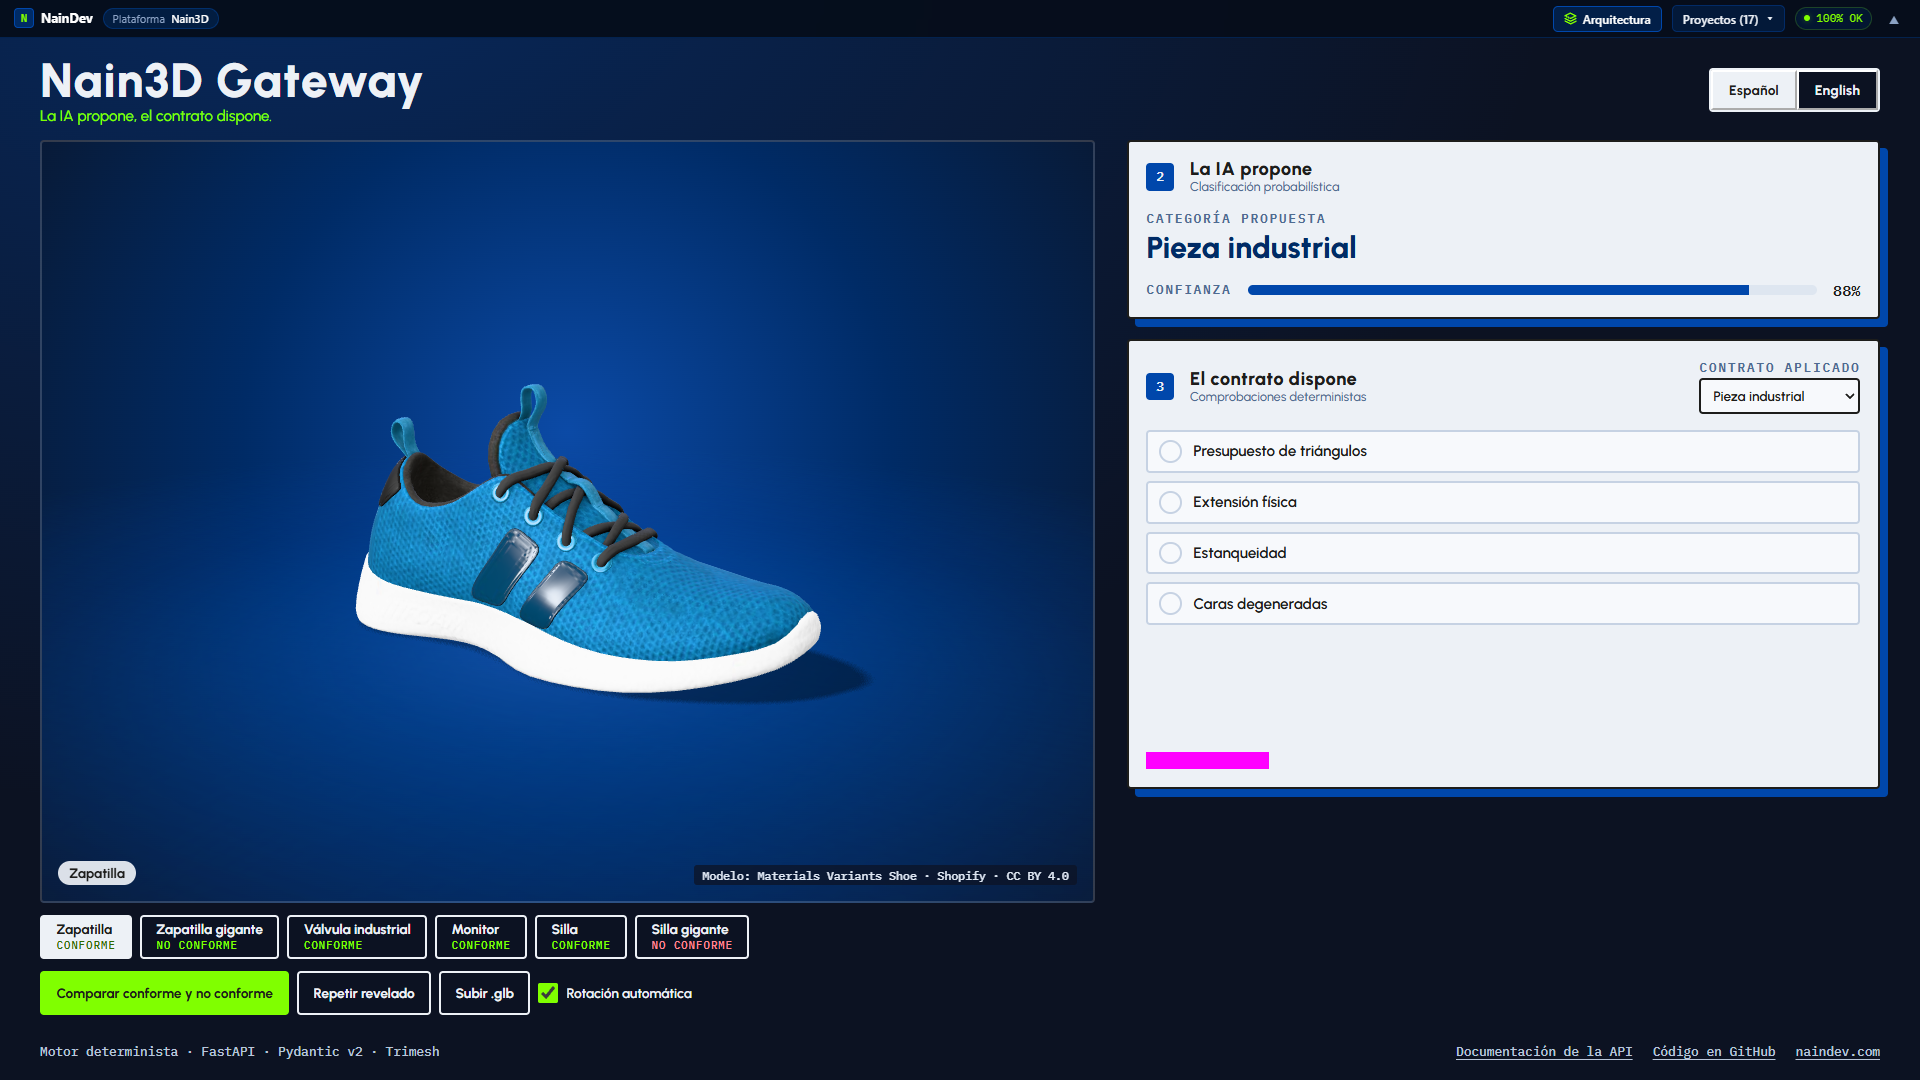
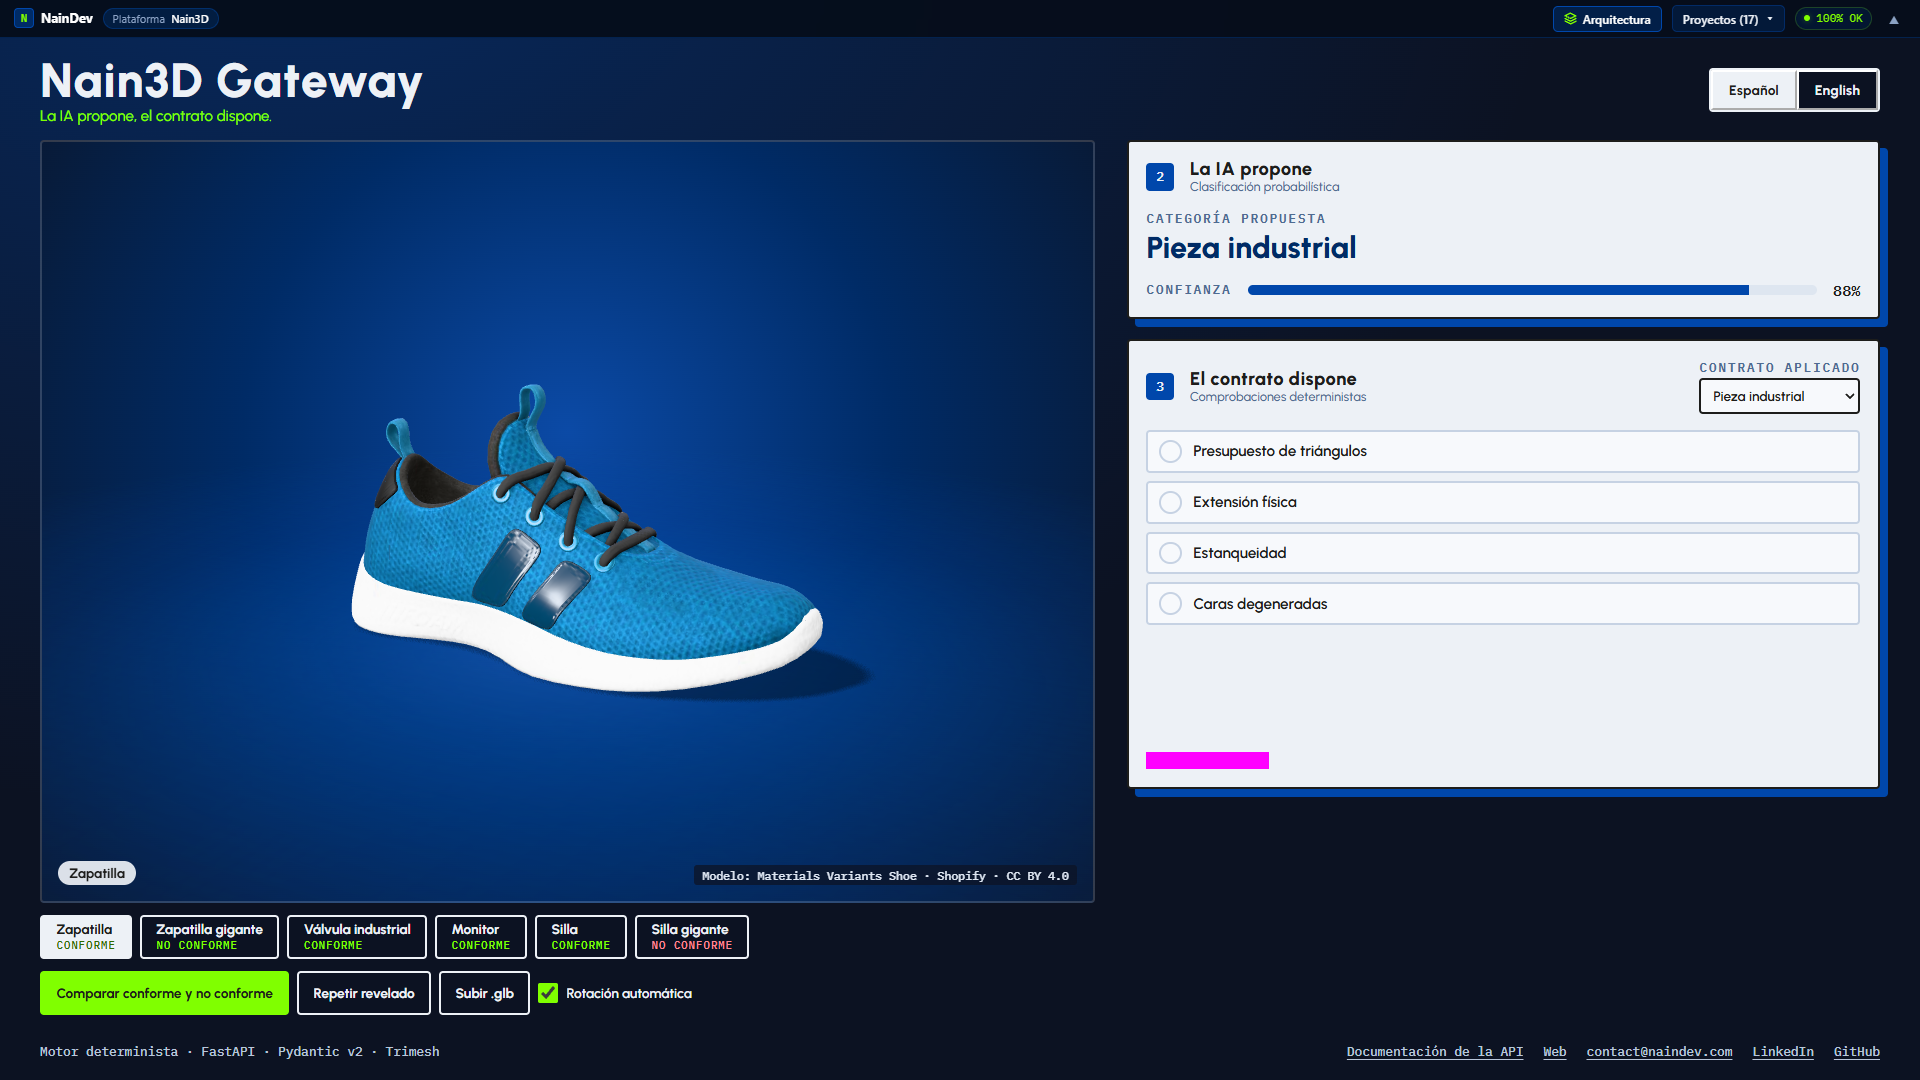
feat(client): add a call to action to the recording and the footer
Close the recording with a 5 s opaque card: name, headline, NainDev and four
contacts (naindev.com, contact@naindev.com, LinkedIn, GitHub) in Spanish and
English, inside the 9:16 safe zones. List the same contacts as named links in
the page footer and drop the link to the retired repository name.

Contact data lives in src/contact/contacts.ts. Tests cover the catalogue, the
5 s card, the ES/EN headline, the safe zone and the footer links.
Spec 003.

diff --git a/Nain3D.Client/src/contact/contacts.test.ts b/Nain3D.Client/src/contact/contacts.test.ts
@@ -1,0 +1,52 @@
+import { readdirSync, readFileSync, statSync } from 'node:fs';
+import { join } from 'node:path';
+import { fileURLToPath } from 'node:url';
+import { describe, expect, it } from 'vitest';
+import { en } from '../i18n/en';
+import { es } from '../i18n/es';
+import { CONTACTS, IDENTITY } from './contacts';
+
+const SRC = fileURLToPath(new URL('..', import.meta.url));
+const walk = (dir: string): string[] =>
+  readdirSync(dir).flatMap((n) => (statSync(join(dir, n)).isDirectory() ? walk(join(dir, n)) : [join(dir, n)]));
+
+describe('contact catalogue', () => {
+  it('lists exactly the four agreed contacts, in order', () => {
+    expect(CONTACTS.map((c) => c.id)).toEqual(['site', 'email', 'linkedin', 'github']);
+  });
+
+  it('uses the NainDev public email and https links', () => {
+    const email = CONTACTS.find((c) => c.id === 'email');
+    expect(email?.value).toBe('contact@naindev.com');
+    expect(email?.href).toBe('mailto:contact@naindev.com');
+    for (const c of CONTACTS.filter((x) => x.id !== 'email')) expect(c.href).toMatch(/^https:\/\//);
+  });
+
+  it('points to the current repository, not the retired name', () => {
+    const github = CONTACTS.find((c) => c.id === 'github');
+    expect(github?.href).toBe('https://github.com/Nain9Dev/Nain3D');
+  });
+
+  it('gives every contact a short label and a readable value', () => {
+    for (const c of CONTACTS) {
+      expect(c.label.length).toBeGreaterThan(0);
+      expect(c.value.length).toBeLessThanOrEqual(34); // Fits one line on a 1080 px wide card.
+    }
+  });
+
+  it('identifies the owner and the brand', () => {
+    expect(IDENTITY).toEqual({ name: 'Aitor Nain', brand: 'NainDev' });
+  });
+
+  it('has the headline in both languages', () => {
+    expect(es['cta.headline']).toBe('Arquitecto de software full stack');
+    expect(en['cta.headline']).toBe('Full stack software architect');
+  });
+
+  it('never ships a personal address or the retired repository link', () => {
+    const offenders = walk(SRC)
+      .filter((f) => /\.(ts|vue)$/.test(f) && !f.endsWith('.test.ts'))
+      .filter((f) => /gmail\.com|3d-ai-conformance-demo/.test(readFileSync(f, 'utf8')));
+    expect(offenders).toEqual([]);
+  });
+});

diff --git a/Nain3D.Client/src/style.css b/Nain3D.Client/src/style.css
@@ -336,18 +336,67 @@ select:focus-visible {
   gap: calc(24 * var(--u));
   padding: calc(96 * var(--u));
   text-align: center;
-  background: rgba(12, 18, 34, 0.985);
+  background: var(--page); /* Opaque: nothing of the stage may show through the closing card. */
   animation: endcard-in 0.5s ease both;
 }
+.is-record.portrait .endcard {
+  /* Same safe zones as the stage layout. */
+  padding: calc(230 * var(--u)) calc(96 * var(--u)) calc(340 * var(--u));
+}
 .endcard-line {
-  font: 800 calc(84 * var(--u)) var(--nain-font-sans);
-  line-height: 1.05;
+  font: 800 calc(56 * var(--u)) var(--nain-font-sans);
+  line-height: 1.1;
+  letter-spacing: var(--nain-track-h1);
+  color: var(--nain-paper);
+}
+.endcard-name {
+  margin-top: calc(24 * var(--u));
+  font: 800 calc(108 * var(--u)) var(--nain-font-sans);
+  line-height: 1;
   letter-spacing: var(--nain-track-h1);
 }
-.endcard-url {
-  font: 600 calc(44 * var(--u)) var(--nain-font-mono);
-  letter-spacing: var(--nain-track-label);
+.endcard-title {
+  font: 600 calc(40 * var(--u)) var(--nain-font-sans);
   color: var(--nain-green);
+}
+.endcard-lead {
+  margin-top: calc(16 * var(--u));
+  font: 600 calc(28 * var(--u)) var(--nain-font-mono);
+  letter-spacing: var(--nain-track-brand);
+  text-transform: uppercase;
+  color: #b9c6da;
+}
+.endcard-contacts {
+  list-style: none;
+  justify-self: center;
+  display: grid;
+  gap: calc(14 * var(--u));
+  text-align: left;
+}
+.endcard-contacts li {
+  display: grid;
+  grid-template-columns: calc(190 * var(--u)) auto;
+  align-items: baseline;
+  gap: calc(20 * var(--u));
+}
+.endcard-label {
+  font: 600 calc(26 * var(--u)) var(--nain-font-mono);
+  letter-spacing: var(--nain-track-label);
+  text-transform: uppercase;
+  color: var(--nain-green);
+}
+.endcard-value {
+  font: 500 calc(38 * var(--u)) var(--nain-font-mono);
+  color: var(--nain-paper);
+}
+.is-record.portrait .endcard-line {
+  font-size: calc(50 * var(--u));
+}
+.is-record.portrait .endcard-name {
+  font-size: calc(96 * var(--u));
+}
+.is-record.portrait .endcard-value {
+  font-size: calc(32 * var(--u));
 }
 @keyframes endcard-in {
   from {

diff --git a/Nain3D.Client/src/App.vue b/Nain3D.Client/src/App.vue
@@ -3,6 +3,7 @@ import { computed, onBeforeUnmount, onMounted, ref, shallowRef, watch } from 'vu
 import { api, ApiError } from './services/api';
 import type { EvaluationResult, ProfileDefinition } from './types/contracts';
 import { lang, t, type MessageKey } from './i18n';
+import { CONTACTS, IDENTITY } from './contact/contacts';
 import { creditLine } from './samples/catalog';
 import { parseUrlState, type SampleId } from './state/urlState';
 import { RECORD_SEQUENCE, recordStateAt, revealStateAt } from './timeline';
@@ -263,16 +264,29 @@ onBeforeUnmount(() => {
 
     <footer v-if="!isRecord" class="footbar">
       <span>{{ t('footer.stack') }}</span>
-      <nav>
+      <nav :aria-label="t('footer.contact')">
         <a v-if="showDocsLink" href="http://localhost:8104/docs" target="_blank" rel="noopener noreferrer">{{ t('footer.api') }}</a>
-        <a href="https://github.com/Nain9Dev/3d-ai-conformance-demo" target="_blank" rel="noopener noreferrer">{{ t('footer.github') }}</a>
-        <a href="https://naindev.com" target="_blank" rel="noopener noreferrer">{{ t('footer.site') }}</a>
+        <a
+          v-for="contact in CONTACTS"
+          :key="contact.id"
+          :href="contact.href"
+          :target="contact.id === 'email' ? undefined : '_blank'"
+          rel="noopener noreferrer"
+        >{{ contact.id === 'email' ? contact.value : contact.label }}</a>
       </nav>
     </footer>
 
     <div v-if="isRecord && recordState.endCard" class="endcard">
       <p class="endcard-line">{{ t('record.endCard') }}</p>
-      <p class="endcard-url">{{ t('record.endUrl') }}</p>
+      <p class="endcard-name">{{ IDENTITY.name }}</p>
+      <p class="endcard-title">{{ t('cta.headline') }} · {{ IDENTITY.brand }}</p>
+      <p class="endcard-lead">{{ t('cta.lead') }}</p>
+      <ul class="endcard-contacts">
+        <li v-for="contact in CONTACTS" :key="contact.id">
+          <span class="endcard-label">{{ contact.label }}</span>
+          <span class="endcard-value">{{ contact.value }}</span>
+        </li>
+      </ul>
     </div>
   </div>
 </template>

diff --git a/Nain3D.Client/e2e/captures.spec.ts b/Nain3D.Client/e2e/captures.spec.ts
@@ -63,6 +63,19 @@ for (const lang of ['es', 'en'] as const) {
         await shot(page, `record-${format}-${lang}-4-non-conformant`);
         await advance(page, 4000);
         await shot(page, `record-${format}-${lang}-5-end-card`);
+        const card = page.locator('.endcard');
+        await expect(card).toContainText('Aitor Nain');
+        await expect(card).toContainText(lang === 'es' ? 'Arquitecto de software full stack' : 'Full stack software architect');
+        for (const value of ['naindev.com', 'contact@naindev.com', 'in/aitor-nain-mendoza-vallejo', 'github.com/Nain9Dev/Nain3D']) {
+          await expect(card).toContainText(value);
+        }
+        // Every line of the card must sit inside the safe zones (vertical: 230 px top, 340 px bottom).
+        const box = await page.locator('.endcard-line').first().boundingBox();
+        const last = await page.locator('.endcard-contacts li').last().boundingBox();
+        if (format === 'vertical' && box && last) {
+          expect(box.y).toBeGreaterThanOrEqual(230);
+          expect(last.y + last.height).toBeLessThanOrEqual(1920 - 340);
+        }
 
         const overflow = await page.evaluate(() => ({
           x: document.documentElement.scrollWidth - window.innerWidth,

diff --git a/Nain3D.Client/e2e/quality.spec.ts b/Nain3D.Client/e2e/quality.spec.ts
@@ -73,6 +73,17 @@ test('language: ?lang wins, the choice is remembered without cookies', async ({ 
   expect(await context.cookies()).toEqual([]);
 });
 
+test('footer: the four contacts are real, named links', async ({ page }) => {
+  await page.goto('/?clock=manual&sample=sample-monitor');
+  await ready(page);
+  const nav = page.getByRole('navigation', { name: 'Contacto' });
+  // On localhost the nav also carries the API docs link, so only the four contacts are asserted.
+  await expect(nav.getByRole('link', { name: 'contact@naindev.com' })).toHaveAttribute('href', 'mailto:contact@naindev.com');
+  await expect(nav.getByRole('link', { name: 'LinkedIn' })).toHaveAttribute('href', /linkedin\.com\/in\/aitor-nain-mendoza-vallejo/);
+  await expect(nav.getByRole('link', { name: 'GitHub' })).toHaveAttribute('href', 'https://github.com/Nain9Dev/Nain3D');
+  await expect(nav.getByRole('link', { name: 'Web' })).toHaveAttribute('href', 'https://naindev.com');
+});
+
 test('reduced motion: the verdict is immediate and rotation is off', async ({ page }) => {
   await page.emulateMedia({ reducedMotion: 'reduce' });
   await page.goto('/?clock=manual&sample=sample-oversized-chair');

diff --git a/Nain3D.Client/src/contact/contacts.ts b/Nain3D.Client/src/contact/contacts.ts
@@ -1,0 +1,24 @@
+// Single source for the call to action shown on the recording end card and in the page footer.
+// The public contact address is contact@naindev.com on every public surface.
+export interface Contact {
+  id: 'site' | 'email' | 'linkedin' | 'github';
+  /** Short name of the channel; brand names and "Email" are the same in both languages. */
+  label: string;
+  /** Readable text; kept short enough for one line on a 1080 px wide card. */
+  value: string;
+  href: string;
+}
+
+export const IDENTITY = { name: 'Aitor Nain', brand: 'NainDev' } as const;
+
+export const CONTACTS: readonly Contact[] = [
+  { id: 'site', label: 'Web', value: 'naindev.com', href: 'https://naindev.com' },
+  { id: 'email', label: 'Email', value: 'contact@naindev.com', href: 'mailto:contact@naindev.com' },
+  {
+    id: 'linkedin',
+    label: 'LinkedIn',
+    value: 'in/aitor-nain-mendoza-vallejo',
+    href: 'https://www.linkedin.com/in/aitor-nain-mendoza-vallejo',
+  },
+  { id: 'github', label: 'GitHub', value: 'github.com/Nain9Dev/Nain3D', href: 'https://github.com/Nain9Dev/Nain3D' },
+];

diff --git a/Nain3D.Client/src/timeline.test.ts b/Nain3D.Client/src/timeline.test.ts
@@ -1,5 +1,5 @@
 import { describe, expect, it } from 'vitest';
-import { RECORD_SEQUENCE, RECORD_TOTAL_MS, recordStateAt, revealDuration, revealStateAt } from './timeline';
+import { RECORD_END_CARD_AT, RECORD_SEQUENCE, RECORD_TOTAL_MS, recordStateAt, revealDuration, revealStateAt } from './timeline';
 
 describe('revealStateAt', () => {
   it('starts empty', () => {
@@ -48,6 +48,15 @@ describe('recordStateAt', () => {
     const second = recordStateAt(RECORD_SEQUENCE[1].startMs + 100);
     expect(second).toMatchObject({ index: 1, localMs: 100, endCard: false });
     expect(recordStateAt(RECORD_TOTAL_MS - 1).endCard).toBe(true);
+  });
+
+  it('keeps the closing card on screen for at least five seconds', () => {
+    expect(RECORD_TOTAL_MS - RECORD_END_CARD_AT).toBeGreaterThanOrEqual(5000);
+  });
+
+  it('lets the second verdict settle before the closing card', () => {
+    const verdictDone = RECORD_SEQUENCE[1].startMs + revealDuration(4);
+    expect(RECORD_END_CARD_AT).toBeGreaterThanOrEqual(verdictDone);
   });
 
   it('stays under thirty seconds', () => {

diff --git a/Nain3D.Client/src/i18n/es.ts b/Nain3D.Client/src/i18n/es.ts
@@ -96,12 +96,12 @@ export const es = {
   'status.errorDetail': 'Detalle: {detail}',
 
   'footer.api': 'Documentación de la API',
-  'footer.github': 'Código en GitHub',
-  'footer.site': 'naindev.com',
+  'footer.contact': 'Contacto',
   'footer.stack': 'Motor determinista · FastAPI · Pydantic v2 · Trimesh',
 
   'record.endCard': 'La IA propone, el contrato dispone.',
-  'record.endUrl': '3d.naindev.com',
+  'cta.headline': 'Arquitecto de software full stack',
+  'cta.lead': 'Hablemos',
 } as const;
 
 export type MessageKey = keyof typeof es;

diff --git a/Nain3D.Client/src/i18n/en.ts b/Nain3D.Client/src/i18n/en.ts
@@ -97,10 +97,10 @@ export const en: Record<MessageKey, string> = {
   'status.errorDetail': 'Detail: {detail}',
 
   'footer.api': 'API documentation',
-  'footer.github': 'Source on GitHub',
-  'footer.site': 'naindev.com',
+  'footer.contact': 'Contact',
   'footer.stack': 'Deterministic engine · FastAPI · Pydantic v2 · Trimesh',
 
   'record.endCard': 'The AI proposes, the contract decides.',
-  'record.endUrl': '3d.naindev.com',
+  'cta.headline': 'Full stack software architect',
+  'cta.lead': "Let's talk",
 };

diff --git a/Nain3D.Client/src/timeline.ts b/Nain3D.Client/src/timeline.ts
@@ -59,7 +59,7 @@ export const RECORD_SEQUENCE: readonly RecordSegment[] = [
   { sampleId: 'sample-shoe', startMs: 0 },
   { sampleId: 'sample-oversized-shoe', startMs: 7000 },
 ];
-export const RECORD_END_CARD_AT = 16500;
+export const RECORD_END_CARD_AT = 15000;
 export const RECORD_TOTAL_MS = 20000;
 
 export interface RecordState {

diff --git a/specs/003-call-to-action/spec.md b/specs/003-call-to-action/spec.md
@@ -1,0 +1,36 @@
+# Specification 003 — Call to Action
+
+- Document version: 1.0
+- Status: Implemented, awaiting owner review
+- Date: 2026-10-18
+- Scope: presentation only (`Nain3D.Client`); no change to business rules, API contracts or schemas
+
+## 1. Problem statement
+
+The demo shows the engine well but ends without telling the viewer what to do next. The audience is
+recruiters and CTOs; the wanted action is to write to the owner or open the portfolio and the code
+(interview, 2026-10-18).
+
+## 2. Requirements (EARS)
+
+- **REQ-CTA-01** When the recording sequence reaches its end, the system shall show a closing card with the
+  owner's name, the headline *Arquitecto de software full stack* (English: *Full stack software architect*), the
+  NainDev brand and four contacts: `naindev.com`, `contact@naindev.com`, LinkedIn and the project's GitHub.
+- **REQ-CTA-02** The closing card shall stay on screen for at least 5 s and the whole recording shall stay under 30 s.
+- **REQ-CTA-03** The closing card shall fit 1080x1920 inside the platform safe zones (230 px top, 340 px bottom) and
+  1920x1080 without scrolling, in Spanish and English.
+- **REQ-CTA-04** In the standard page, the footer shall list the same four contacts as keyboard-reachable links
+  with accessible names, and shall no longer link to the retired repository name.
+- **REQ-CTA-05** The contact data shall live in one catalogue; the public email is `contact@naindev.com` and no
+  other address shall appear in the client.
+- **REQ-CTA-06** All visible text shall come from the i18n catalogue or the contact catalogue (proper names and
+  addresses), keeping the ES/EN parity test green.
+
+## 3. Out of scope
+
+QR codes, forms, analytics, any server-side contact handling.
+
+## 4. Handoff state
+
+See `tasks.md`. Contact lines use the channel name plus a short readable value (LinkedIn is shown as
+`in/aitor-nain-mendoza-vallejo`, GitHub as `github.com/Nain9Dev/Nain3D`) so each fits one line at 1080 px.

diff --git a/docs/demo-recording-script.md b/docs/demo-recording-script.md
@@ -29,7 +29,7 @@ Times are from the first rendered frame of the model.
 | **7.0 s (cut)** | The same sneaker, scaled to 5 m, replaces the first. Same model, wrong scale. |
 | 8.3-10.3 s | Checks tick again; the **Extensión física** row turns red (*5 m de 1,2 m* on the static site). From 8.95 s a red box shows the real size, a white box shows the profile limit, a ruler marks the metres and a red label reads *Excede el límite*. |
 | 11.0 s | Red badge **No conforme**, red card shadow, *Incumple: Extensión física.* |
-| **16.5-20.0 s (end)** | Dark end card: *La IA propone, el contrato dispone.* and `3d.naindev.com`. |
+| **15.0-20.0 s (end)** | Opaque dark closing card (5 s): the tagline, **Aitor Nain**, *Arquitecto de software full stack · NainDev*, *Hablemos*, and four lines: `naindev.com`, `contact@naindev.com`, LinkedIn `in/aitor-nain-mendoza-vallejo`, `github.com/Nain9Dev/Nain3D`. English version: *Full stack software architect*, *Let's talk*. Contacts come from `src/contact/contacts.ts`. |
 
 What the viewer ends with: the AI can be confident and still be vetoed; the contract has the last word.
 The limit shown (1,2 m) depends on the category the engine proposes; any category rejects a 5 m object.
